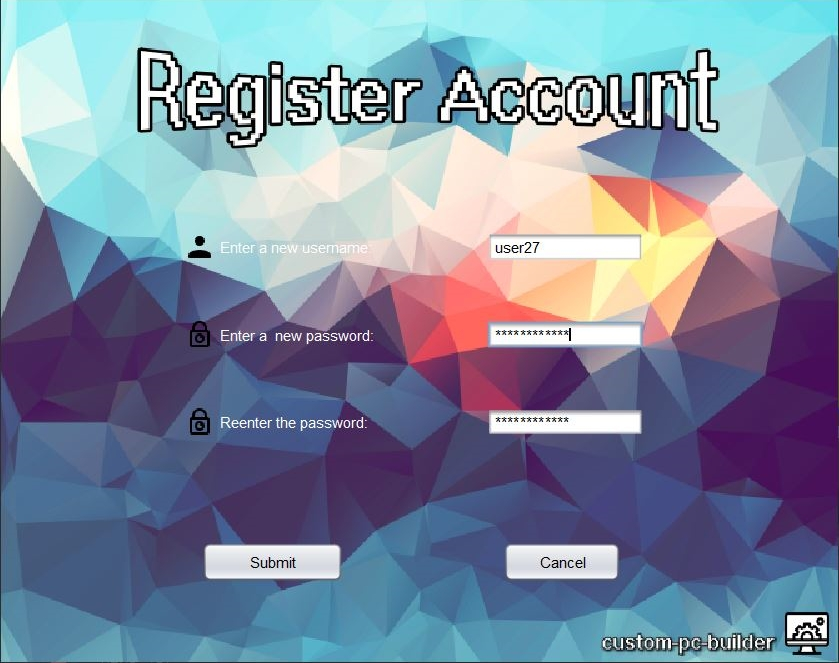
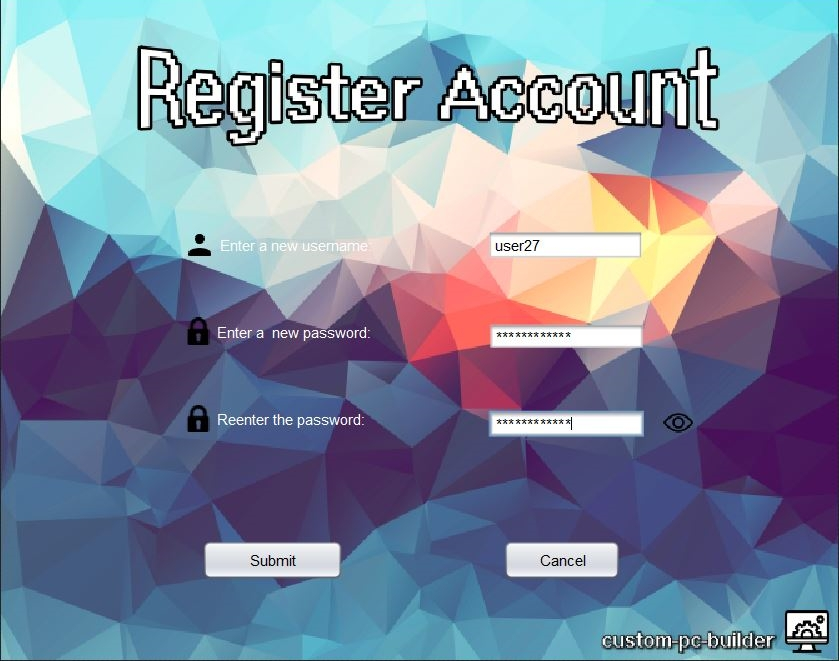
added hide/show password to registration
created a button to show/hide password for the registration screen and updated the pictures used in the readme of login and registration screens respectively

diff --git a/src/core/registerForm.java b/src/core/registerForm.java
@@ -33,15 +33,18 @@ public class registerForm extends javax.swing.JFrame {
     /**
      * Creates new form registerForm
      */
+    public boolean showPwds = false;
     public registerForm() {
         initComponents();
         setLocationRelativeTo(null);
         final ImageIcon registration = new ImageIcon(".\\images\\icons\\registerAccount.png");
         final ImageIcon logoSmall = new ImageIcon(".\\images\\icons\\cpblogoSmallFull.png");
         final ImageIcon background = new ImageIcon(".\\images\\backgrounds\\registrationScreen.png");
+        final ImageIcon showPasswords = new ImageIcon(".\\images\\icons\\showPassword.png");
         jLblRegistration.setIcon(registration);
         jLblLogoSmall.setIcon(logoSmall);
         jLblBackground.setIcon(background);
+        jLblShowPwds.setIcon(showPasswords);
     }
 
     /**
@@ -57,6 +60,7 @@ public class registerForm extends javax.swing.JFrame {
         jLblUsername = new javax.swing.JLabel();
         jLblPassword = new javax.swing.JLabel();
         jLblPasswordConfirm = new javax.swing.JLabel();
+        jLblShowPwds = new javax.swing.JLabel();
         jBtnSubmit = new javax.swing.JButton();
         jBtnCancel = new javax.swing.JButton();
         jTxtUsername = new javax.swing.JTextField();
@@ -98,6 +102,15 @@ public class registerForm extends javax.swing.JFrame {
         jPanel1.add(jLblPasswordConfirm);
         jLblPasswordConfirm.setBounds(147, 326, 155, 22);
 
+        jLblShowPwds.setIcon(new javax.swing.ImageIcon("D:\\Codes\\Github\\custom-pc-builder\\images\\icons\\showPassword.png")); // NOI18N
+        jLblShowPwds.addMouseListener(new java.awt.event.MouseAdapter() {
+            public void mouseClicked(java.awt.event.MouseEvent evt) {
+                jLblShowPwdsMouseClicked(evt);
+            }
+        });
+        jPanel1.add(jLblShowPwds);
+        jLblShowPwds.setBounds(530, 330, 30, 20);
+
         jBtnSubmit.setText("Submit");
         jBtnSubmit.setCursor(new java.awt.Cursor(java.awt.Cursor.HAND_CURSOR));
         jBtnSubmit.addActionListener(new java.awt.event.ActionListener() {
@@ -120,7 +133,7 @@ public class registerForm extends javax.swing.JFrame {
         jPanel1.add(jTxtUsername);
         jTxtUsername.setBounds(389, 186, 125, 24);
         jPanel1.add(jPassword);
-        jPassword.setBounds(389, 257, 125, 22);
+        jPassword.setBounds(390, 260, 125, 22);
 
         jPasswordConfirm.setToolTipText("");
         jPasswordConfirm.addKeyListener(new java.awt.event.KeyAdapter() {
@@ -129,7 +142,7 @@ public class registerForm extends javax.swing.JFrame {
             }
         });
         jPanel1.add(jPasswordConfirm);
-        jPasswordConfirm.setBounds(389, 327, 125, 22);
+        jPasswordConfirm.setBounds(390, 330, 125, 22);
 
         jLblRegistration.setIcon(new javax.swing.ImageIcon("D:\\Codes\\Github\\custom-pc-builder\\images\\icons\\registerAccount.png")); // NOI18N
         jPanel1.add(jLblRegistration);
@@ -268,6 +281,24 @@ public class registerForm extends javax.swing.JFrame {
         }
     }//GEN-LAST:event_jPasswordConfirmKeyPressed
 
+    private void jLblShowPwdsMouseClicked(java.awt.event.MouseEvent evt) {//GEN-FIRST:event_jLblShowPwdsMouseClicked
+        // TODO add your handling code here:
+        ImageIcon hidePwd = new ImageIcon(".\\images\\icons\\hidePassword.png");
+        ImageIcon showPwd = new ImageIcon(".\\images\\icons\\showPassword.png");
+        if (!showPwds){
+            jPassword.setEchoChar((char)0);
+            jPasswordConfirm.setEchoChar((char)0);
+            jLblShowPwds.setIcon(hidePwd);
+            showPwds = true;
+        }
+        else{
+            jPassword.setEchoChar('*');
+            jPasswordConfirm.setEchoChar('*');
+            jLblShowPwds.setIcon((showPwd));
+            showPwds = false;
+        }
+    }//GEN-LAST:event_jLblShowPwdsMouseClicked
+
     /**
      * @param args the command line arguments
      */
@@ -311,6 +342,7 @@ public class registerForm extends javax.swing.JFrame {
     private javax.swing.JLabel jLblPassword;
     private javax.swing.JLabel jLblPasswordConfirm;
     private javax.swing.JLabel jLblRegistration;
+    private javax.swing.JLabel jLblShowPwds;
     private javax.swing.JLabel jLblUsername;
     private javax.swing.JPanel jPanel1;
     private javax.swing.JPasswordField jPassword;

diff --git a/src/core/loginForm.java b/src/core/loginForm.java
@@ -127,6 +127,7 @@ public class loginForm extends javax.swing.JFrame {
         jPanel1.add(jLblPassword);
         jLblPassword.setBounds(150, 299, 104, 22);
 
+        jLblShowPassword.setIcon(new javax.swing.ImageIcon("D:\\Codes\\Github\\custom-pc-builder\\images\\icons\\showPassword.png")); // NOI18N
         jLblShowPassword.addMouseListener(new java.awt.event.MouseAdapter() {
             public void mouseClicked(java.awt.event.MouseEvent evt) {
                 jLblShowPasswordMouseClicked(evt);
@@ -218,14 +219,12 @@ public class loginForm extends javax.swing.JFrame {
             jPassword.setEchoChar((char)0);
             jLblShowPassword.setIcon(hidePwd);
             eyeClicked = true;
-            System.out.println("false");
         }
         else
         {
             jPassword.setEchoChar('*');
             jLblShowPassword.setIcon((showPwd));
             eyeClicked = false;
-            System.out.println("true");
         }
     }//GEN-LAST:event_jLblShowPasswordMouseClicked
 
